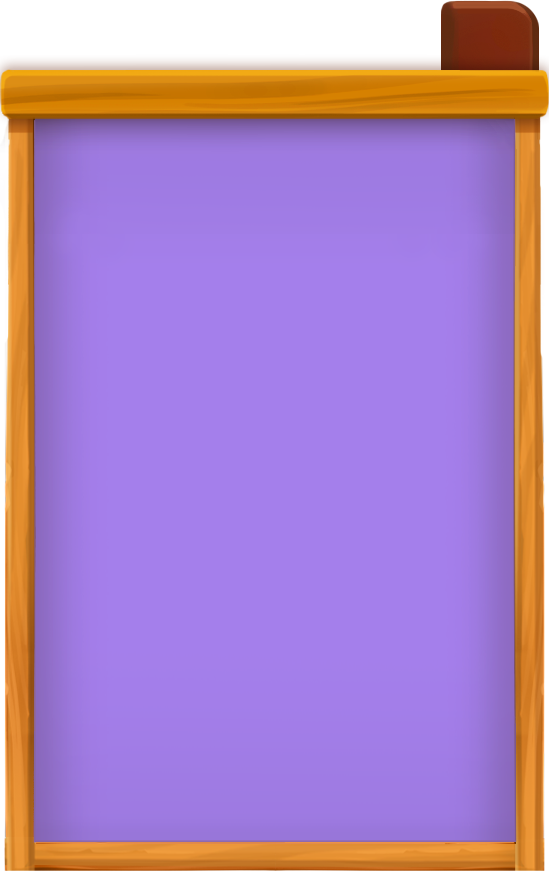
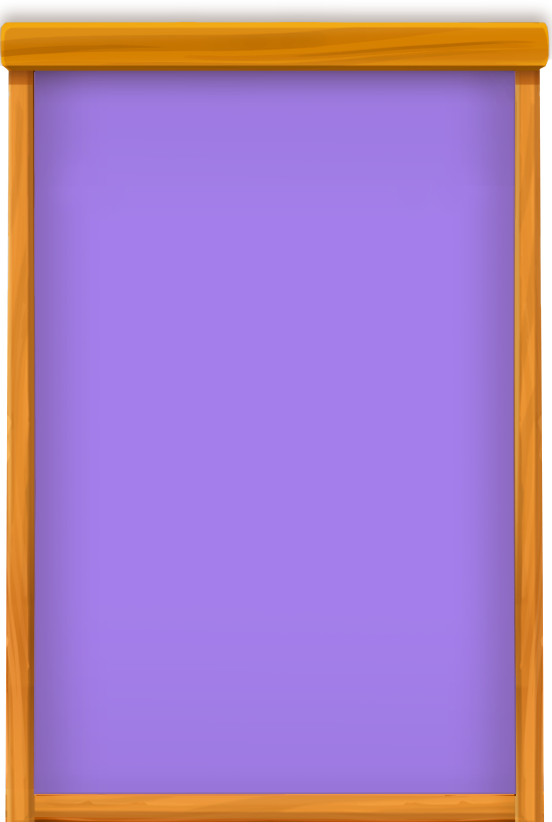
add new sprites

Changed region(s): [[0.0, 0.0, 1.0, 1.0], [0.0, 0.4866, 0.031, 0.7908], [0.0, 0.9732, 0.031, 1.0]]

diff --git a/src/scripts/scenes/Modal/typePreload.ts b/src/scripts/scenes/Modal/typePreload.ts
@@ -55,6 +55,7 @@ const boostLeaves: string = require("./../../../assets/images/boost/leaves.png")
 const flags: string = require("./../../../assets/images/modal/flags.png");
 const chatBackground: string = require("./../../../assets/images/modal/chat/bg.png");
 const chatTab: string = require('./../../../assets/images/modal/chat/tab.png');
+const chatTabClose: string = require('./../../../assets/images/modal/chat/tab-close.png');
 const chatTabActive: string = require('./../../../assets/images/modal/chat/tab-active.png');
 const chatInput: string = require('./../../../assets/images/modal/chat/input.png');
 const chatSendBtn: string = require("./../../../assets/images/modal/chat/send-btn.png");
@@ -182,6 +183,7 @@ export default function typePreload(): void {
       case 9: // Чат +
         this.load.image('chat-bg', chatBackground);
         this.load.image('chat-tab', chatTab);
+        this.load.image('chat-tab-close', chatTabClose);
         this.load.image('chat-tab-active', chatTabActive);
         this.load.image('chat-input-bg', chatInput);
         this.load.image('chat-send-btn', chatSendBtn);

diff --git a/src/scripts/scenes/Preload.ts b/src/scripts/scenes/Preload.ts
@@ -119,6 +119,7 @@ const chatSendBtn: string = require("./../../assets/images/modal/chat/send-btn.p
 const chatEmojiBtn: string = require("./../../assets/images/modal/chat/emoji-btn.png");
 const fortunePlate: string = require("./../../assets/images/modal/chat/fortune-plate.png");
 const chatTab: string = require('./../../assets/images/modal/chat/tab.png');
+const chatTabClose: string = require('./../../assets/images/modal/chat/tab-close.png');
 const chatTabActive: string = require('./../../assets/images/modal/chat/tab-active.png');
 const chatInput: string = require('./../../assets/images/modal/chat/input.png');
 
@@ -337,6 +338,7 @@ class Preload extends Phaser.Scene {
 
     this.load.image('chat-bg', chatBackground);
     this.load.image('chat-tab', chatTab);
+    this.load.image('chat-tab-close', chatTabClose);
     this.load.image('chat-tab-active', chatTabActive);
     this.load.image('chat-input-bg', chatInput);
     this.load.image('chat-send-btn', chatSendBtn);
